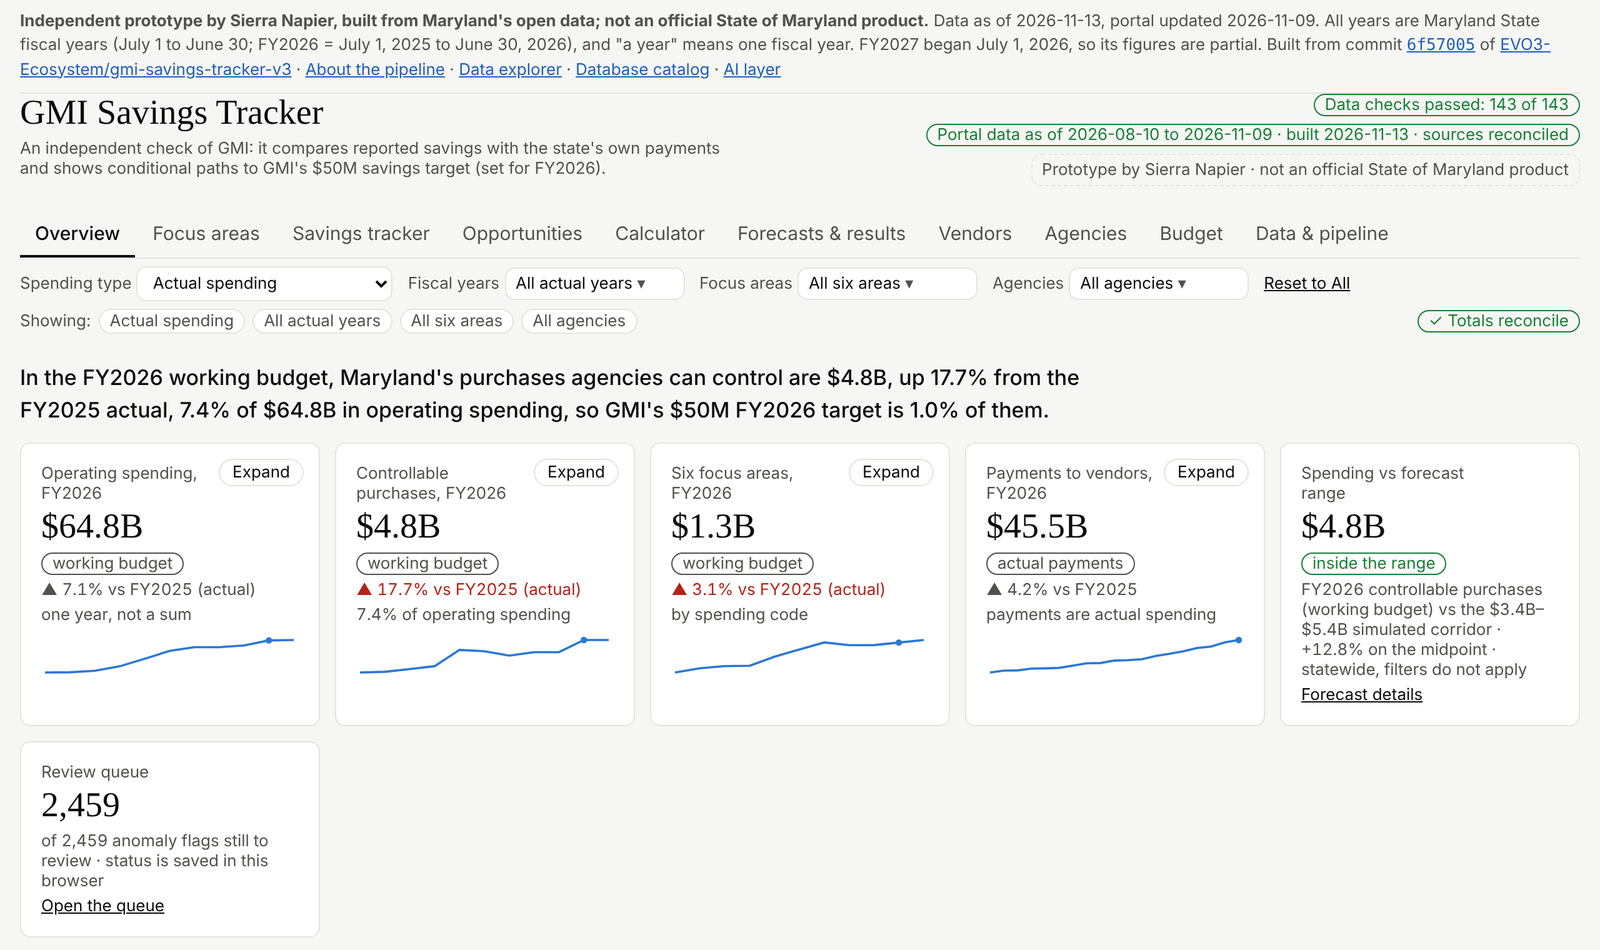
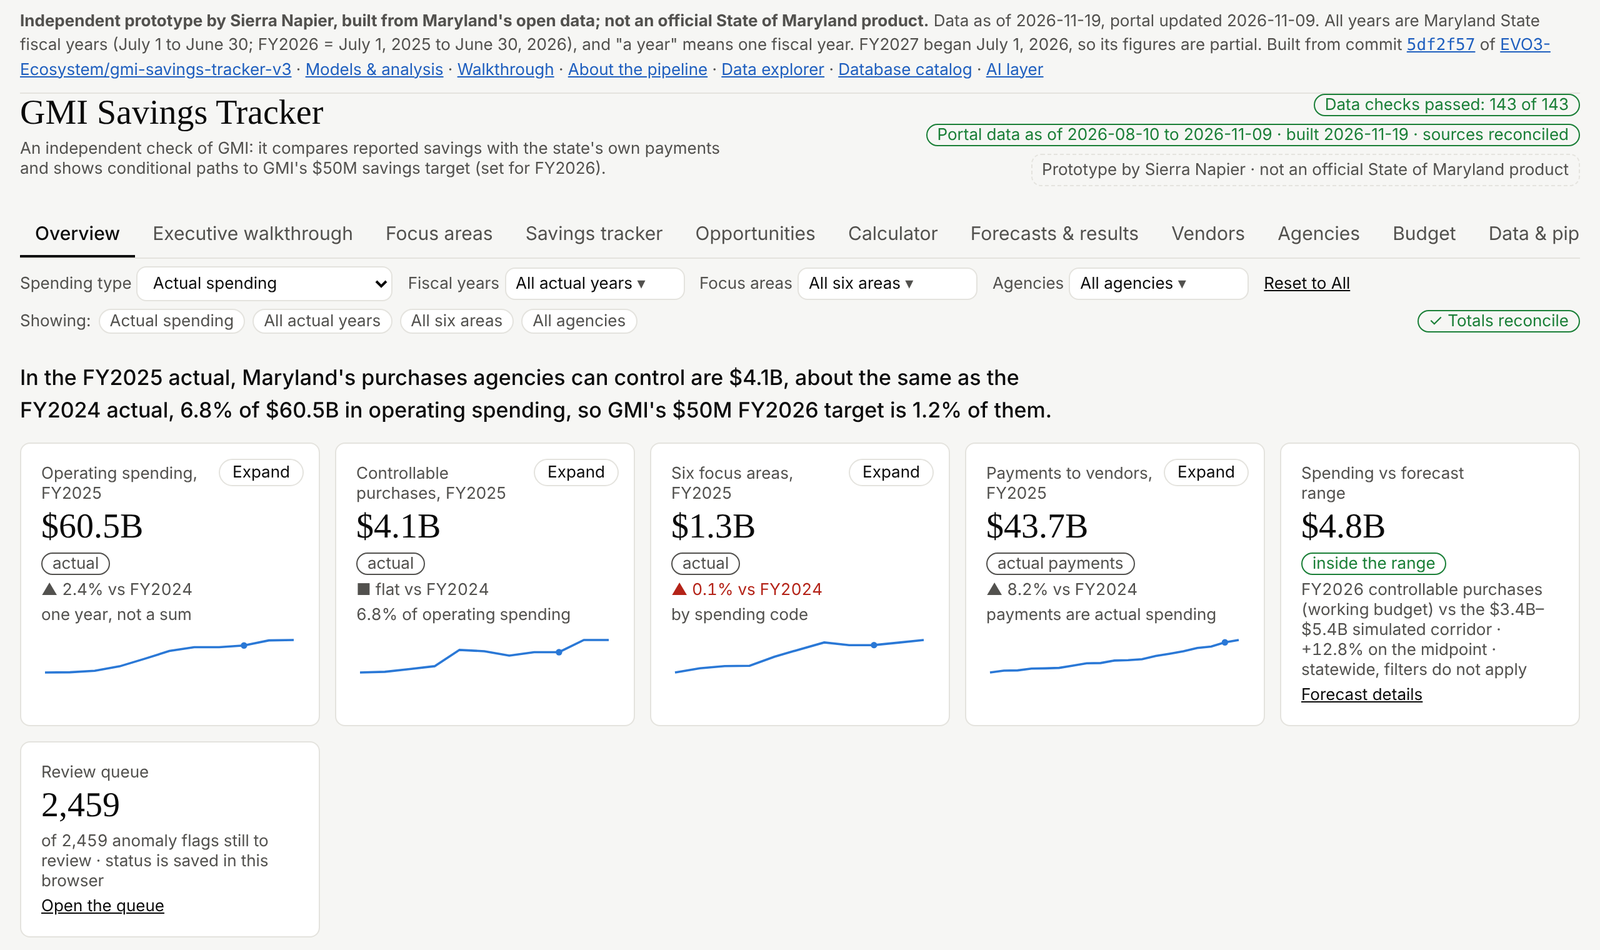
Live FYTD: payments headline the open year to date; every agency selected equals All agencies
- payments(): agencies read f_budget_vs_pay (every paying account, incl. capital and
  other payment-only accounts, selectable in the Agencies slicer); All agencies reads
  totals_by_fy. Both reach the open fiscal year.
- PAY_NOW is the latest payments year with data (the open year when there is one).
  The payments tile defaults to it ("FY2027 to date", chip "FYTD · partial year",
  the last full year shown beside it); payment charts, tables and detail pages reach it.
- measure() never computes a change or growth that involves the open year: a part-year
  is not compared with a full year.
- Overview budget-and-payments chart runs to the open year; its payments point is hollow
  with a dashed segment.

Claude-Session: https://claude.ai/code/session_01PGNQKtrzqjTT39F5pT2GEc

diff --git a/README.md b/README.md
@@ -15,7 +15,7 @@
 
 Prototype by Sierra Napier, MPA. Not an official State of Maryland product. **All data comes from the State's open data portal through the SODA API** (opendata.maryland.gov); State websites and DBM's budget books are used only to verify it.
 
-<a href="https://evo3-ecosystem.github.io/gmi-savings-tracker-v3/"><img src="docs/figures/readme/overview.png" alt="Dashboard overview: FY2026 against FY2025, with the computed finding at the top"></a>
+<a href="https://evo3-ecosystem.github.io/gmi-savings-tracker-v3/"><img src="docs/figures/readme/overview.png" alt="Dashboard overview: FY2025 actual spending against FY2024, with the computed finding at the top"></a>
 
 ## What it found
 
